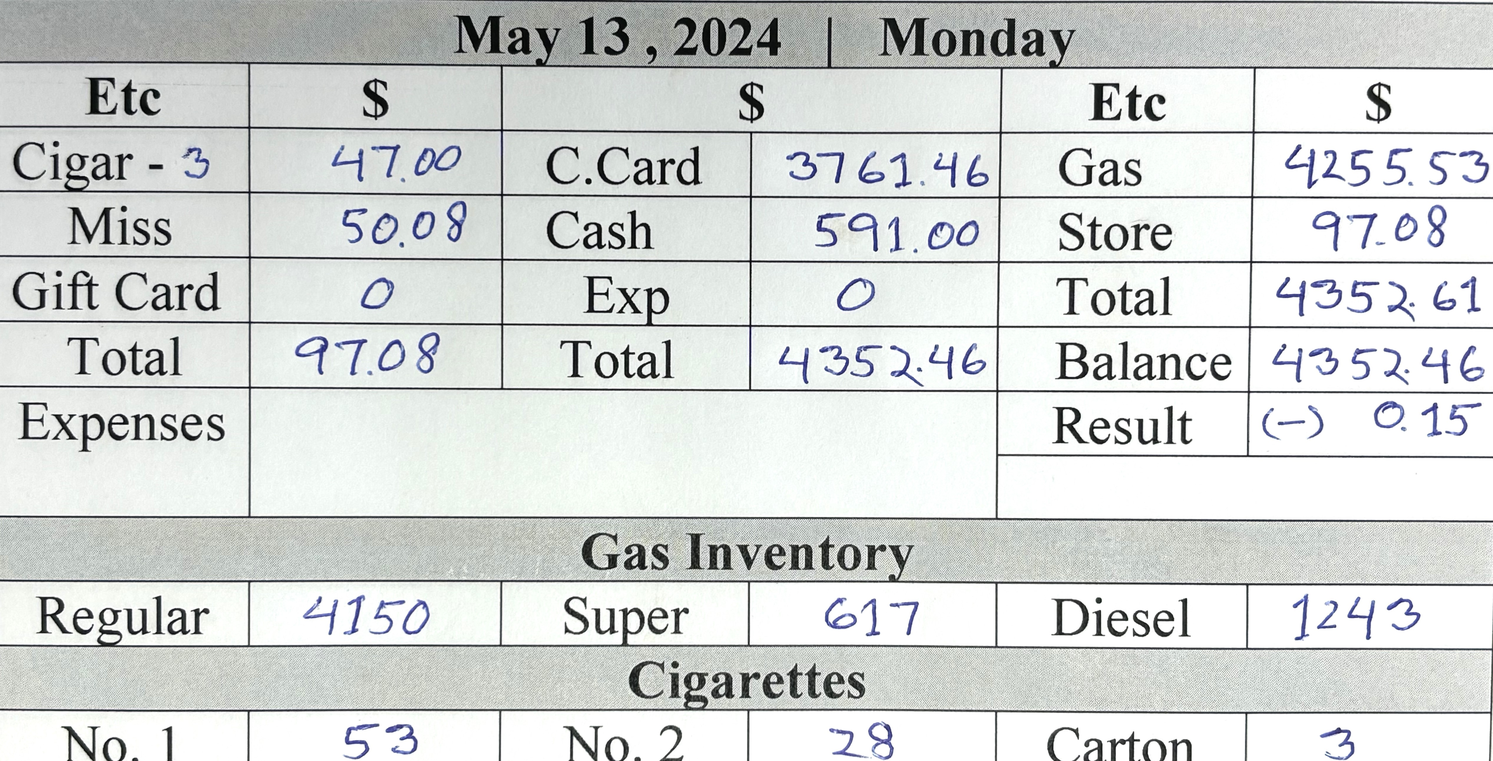
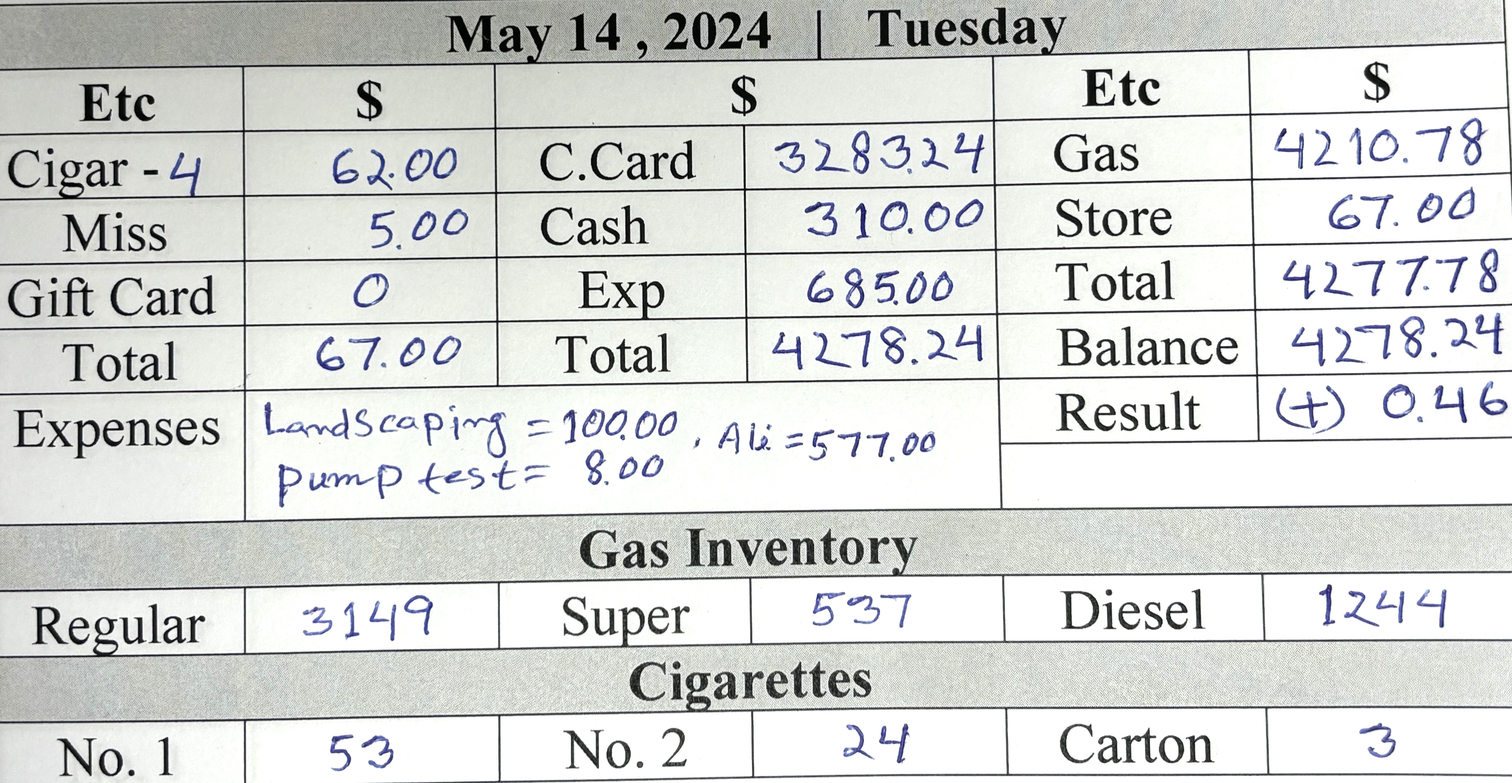
d

diff --git a/card.min.html b/card.min.html
@@ -1,1 +1,1 @@
-<!DOCTYPE html> <html lang="en"> <head> <meta charset="UTF-8"> <meta http-equiv="X-UA-Compatible" content="IE=edge"> <meta name="viewport" content="width=device-width,initial-scale=1"> <title>Gallon Info</title> <link rel="stylesheet" href="https://cdn.jsdelivr.net/npm/bootstrap@5.3.0-alpha1/dist/css/bootstrap.min.css"> </head> <body> <div class="card-group d-sm-flex flex-row bd-highlight mb- justify-content-center"> <div class="card bg-secondary align-items-center justify-content-center" style="height:50px"> <div class="card-body text-info fst-italic"> <h5 class="card-title fw-bolder text-center">Regular Price : <span class="text-warning">$3.59 <sup class="text-white fw-bolder fs-5">9</sup></span></h5> </div> </div> <div class="card bg-secondary align-items-center justify-content-center" style="height:50px"> <div class="card-body text-info fst-italic"> <h5 class="card-title fw-bolder text-center pt-">Silver Price : <span class="text-warning">$4.55<sup class="text-white fw-bolder fs-5">9</sup></span></h5> </div> </div> <div class="card bg-secondary align-items-center justify-content-center" style="height:50px"> <div class="card-body text-info fst-italic"> <h5 class="card-title fw-bolder text-center">Super Price : <span class="text-warning">$4.65<sup class="text-white fw-bolder fs-5">9</sup></span></h5> </div> </div> <div class="card bg-secondary align-items-center justify-content-center" style="height:50px"> <div class="card-body text-info fst-italic"> <h5 class="card-title fw-bolder text-center">Diesel Price : <span class="text-warning">$4.45<sup class="text-white fw-bolder fs-5">9</sup></span></h5> </div> </div> </div> <div class="card-group"> <div class="card"> <button type="button" class="btn btn-warning text- fs- fw-bold text-uppercase"> For store Details <a title="printPage Me" class="text-bg-danger ms-3 fw-bolder p-1 rounded-3 text-decoration-none" href="index.html"> Click Me </a> </button> </div> </div> <div class="card-group m-0 d-sm-flex flex-row bd-highlight mb-"> <div class="card me-1 bg-info"> <h5 class="card-title text-center pt-4 m-0"> <button class="p-1 rounded-3" type="button"><a title="Click Me" class="text-decoration-none text-primary fw-bolder" href="index.html">   </a> </button> </h5>  <p class="card-text"></p> <img src="allPic/13.jpg" class="card-img-top text-danger text-center fw-bolder fs-3" alt="Call Rashid "> <div class="card-body">   <p class="card-text"></p> </div> </div> <div class="card me-1 bg-info"> <h5 class="card-title text-center pt-4 m-0"> <button class="p-1 rounded-3" type="button"><a title="Click Me" class="text-primary fw-bolder text-decoration-none" href="index.html"> May 12,2024 </a> </button> </h5>  <p class="card-text"></p> <img src="allPic/12.jpg" class="card-img-top text-center text-bg-danger" alt="Not Done"> <div class="card-body">   <p class="card-text"></p> </div> </div> <div class="card ms- bg-info"> <h5 class="card-title text-center pt-4 m-0"> <button class="p-1 rounded-3" type="button"><a title="Click Me" class="text-primary fw-bolder text-decoration-none" href="index.html"> May 11 ,2024 </a> </button> </h5>  <p class="card-text"></p> <img src="allPic/11.jpg" class="card-img-top text-center text-bg-danger" alt="Not Done"> <div class="card-body">   <p class="card-text"></p> </div> </div> <div class="card me-1 bg-info"> <h5 class="card-title text-center pt-4 m-0"> <button class="p-1 rounded-3" type="button"><a title="Click Me" class="text-primary fw-bolder text-decoration-none" href="index.html"> May 10,2024 </a> </button> </h5>  <p class="card-text"></p> <img title="Pic" src="allPic/10.jpg" class="card-img-top text-bg-danger fw-bolder text-center" alt="Already Done"> <div class="card-body">   <p class="card-text"></p> </div> </div> </div> <div class="card"> <div class="card-header bg-warning text-dark fw-bolder text-center py-3"> All Rights Reserved @ Jaber Ali , 2024 </div> </div>  <script type="text/javascript">const timeElement=document.querySelector(".time"),dateElement=document.querySelector(".date");function formatTime(e){e.getHours(),e.getMinutes(),e.getHours();return""}function formatDate(e){return` ${["January","Marruary","March","April","May","June","July","August","September","October","November","December"][e.getMonth()]} ${e.getDate()-1}, ${e.getFullYear()}`}setInterval((()=>{const e=new Date;timeElement.textContent=formatTime(e),dateElement.textContent=formatDate(e)}),200)</script> 
+<!DOCTYPE html> <html lang="en"> <head> <meta charset="UTF-8"> <meta http-equiv="X-UA-Compatible" content="IE=edge"> <meta name="viewport" content="width=device-width,initial-scale=1"> <title>Gallon Info</title> <link rel="stylesheet" href="https://cdn.jsdelivr.net/npm/bootstrap@5.3.0-alpha1/dist/css/bootstrap.min.css"> </head> <body> <div class="card-group d-sm-flex flex-row bd-highlight mb- justify-content-center"> <div class="card bg-secondary align-items-center justify-content-center" style="height:50px"> <div class="card-body text-info fst-italic"> <h5 class="card-title fw-bolder text-center">Regular Price : <span class="text-warning">$3.59 <sup class="text-white fw-bolder fs-5">9</sup></span></h5> </div> </div> <div class="card bg-secondary align-items-center justify-content-center" style="height:50px"> <div class="card-body text-info fst-italic"> <h5 class="card-title fw-bolder text-center pt-">Silver Price : <span class="text-warning">$4.55<sup class="text-white fw-bolder fs-5">9</sup></span></h5> </div> </div> <div class="card bg-secondary align-items-center justify-content-center" style="height:50px"> <div class="card-body text-info fst-italic"> <h5 class="card-title fw-bolder text-center">Super Price : <span class="text-warning">$4.65<sup class="text-white fw-bolder fs-5">9</sup></span></h5> </div> </div> <div class="card bg-secondary align-items-center justify-content-center" style="height:50px"> <div class="card-body text-info fst-italic"> <h5 class="card-title fw-bolder text-center">Diesel Price : <span class="text-warning">$4.45<sup class="text-white fw-bolder fs-5">9</sup></span></h5> </div> </div> </div> <div class="card-group"> <div class="card"> <button type="button" class="btn btn-warning text- fs- fw-bold text-uppercase"> For store Details <a title="printPage Me" class="text-bg-danger ms-3 fw-bolder p-1 rounded-3 text-decoration-none" href="index.html"> Click Me </a> </button> </div> </div> <div class="card-group m-0 d-sm-flex flex-row bd-highlight mb-"> <div class="card me-1 bg-info"> <h5 class="card-title text-center pt-4 m-0"> <button class="p-1 rounded-3" type="button"><a title="Click Me" class="text-decoration-none text-primary fw-bolder" href="index.html">   </a> </button> </h5>  <p class="card-text"></p> <img src="allPic/14.jpg" class="card-img-top text-danger text-center fw-bolder fs-3" alt="Call Rashid "> <div class="card-body">   <p class="card-text"></p> </div> </div> <div class="card me-1 bg-info"> <h5 class="card-title text-center pt-4 m-0"> <button class="p-1 rounded-3" type="button"><a title="Click Me" class="text-primary fw-bolder text-decoration-none" href="index.html"> May 13,2024 </a> </button> </h5>  <p class="card-text"></p> <img src="allPic/13.jpg" class="card-img-top text-center text-bg-danger" alt="Not Done"> <div class="card-body">   <p class="card-text"></p> </div> </div> <div class="card ms- bg-info"> <h5 class="card-title text-center pt-4 m-0"> <button class="p-1 rounded-3" type="button"><a title="Click Me" class="text-primary fw-bolder text-decoration-none" href="index.html"> May 12 ,2024 </a> </button> </h5>  <p class="card-text"></p> <img src="allPic/12.jpg" class="card-img-top text-center text-bg-danger" alt="Not Done"> <div class="card-body">   <p class="card-text"></p> </div> </div> <div class="card me-1 bg-info"> <h5 class="card-title text-center pt-4 m-0"> <button class="p-1 rounded-3" type="button"><a title="Click Me" class="text-primary fw-bolder text-decoration-none" href="index.html"> May 11,2024 </a> </button> </h5>  <p class="card-text"></p> <img title="Pic" src="allPic/11.jpg" class="card-img-top text-bg-danger fw-bolder text-center" alt="Already Done"> <div class="card-body">   <p class="card-text"></p> </div> </div> </div> <div class="card"> <div class="card-header bg-warning text-dark fw-bolder text-center py-3"> All Rights Reserved @ Jaber Ali , 2024 </div> </div>  <script type="text/javascript">const timeElement=document.querySelector(".time"),dateElement=document.querySelector(".date");function formatTime(e){e.getHours(),e.getMinutes(),e.getHours();return""}function formatDate(e){return` ${["January","Marruary","March","April","May","June","July","August","September","October","November","December"][e.getMonth()]} ${e.getDate()-1}, ${e.getFullYear()}`}setInterval((()=>{const e=new Date;timeElement.textContent=formatTime(e),dateElement.textContent=formatDate(e)}),200)</script> 

diff --git a/index.min.html b/index.min.html
@@ -1,1 +1,1 @@
-<!DOCTYPE html> <html lang="en"> <head> <meta charset="UTF-8"> <meta http-equiv="X-UA-Compatible" content="IE=edge"> <meta name="viewport" content="width=device-width,initial-scale=1"> <title>Store Info</title> <link rel="stylesheet" href="https://cdn.jsdelivr.net/npm/bootstrap@5.3.0-alpha1/dist/css/bootstrap.min.css"> </head> <body> <div class="text-bg-success py-2 fw-bold text-uppercase"> <marquee behavior="" direction=""><span class="text-bolder text-bg-danger rounded-circle m-lg-2 fs-">***</span> Personal Business Information <span class="text-bolder text-bg-danger rounded-circle m-lg-2 fs-">***</span></marquee> </div> <div class="card-group"> <div class="card"> <button type="button" class="btn btn-warning fs- fw-bold text-uppercase"> For Gallon Details <a title="printPage Me" class="text-bg-danger ms-3 fw-bolder p-1 rounded-3 text-decoration-none" href="card.html"> Click Me </a> </button> </div> <div class="card"> <button type="button" class="btn btn-warning fs- fw-bold text-uppercase"> Weekly Total Money<a title="printPage Me" class="text-bg-danger ms-3 fw-bolder p-1 rounded-3 text-decoration-none" href="weekly.html"> Click Me </a> </button> </div> </div> <div class="card-group"> <div class="card"> <button type="button" class="btn btn-warning fs- fw-bold text-uppercase"> Order Cigarettes <a title="printPage Me" class="text-bg-danger ms-3 fw-bolder p-1 rounded-3 text-decoration-none" href="cigarettes.html"> Click Me </a> </button> </div> <div class="card"> <button type="button" class="btn btn-warning fs- fw-bold text-uppercase"> Oil Inventory<a title="printPage Me" class="text-bg-danger ms-3 fw-bolder p-1 rounded-3 text-decoration-none" href="oil.html"> Click Me </a> </button> </div> </div> <div class="text-center py-2"> <button class="fw-bold fs-5 rounded-2 text-bg-light text-primary"> <a title="printPage Me" class="text-decoration-none" href="card.html">   <span class=""> <button class="ms-5 fw-bolder rounded-2" onclick="printPage()"> Print Me </button></span> </a> </button> </div> <div class="card-group"> <div class="card"> <button type="button" class="btn btn-info fs- fw-bold text-uppercase"> Shift Report <span class="text-white ms-1">*</span> </button> <img src="allPic/hisab.jpg" class="card-img-top text-center text-bg-danger" alt="NOT FINISH"> </div> </div> <div class="card-grou"> <div class="card pb-3"> <button type="button" class="btn btn-secondary fs fw-bold text-uppercase"> Exp : <span class="text-warning ms-3">0 </span> </button> </div> </div> <div class="card-group"> <div class="card"> <button type="button" class="btn btn-secondary fs- fw-bold text-uppercase"> Auto shop </button> </div> </div> <div class="pb-3"> <div class="d-flex justify-content-around border border-dark fw-bolder"> <div class="p-0 text-info">T.M</div> <div class="p-0 text-danger">3817</div> <div class="p-0 text-info">Etc</div> <div class="p-0 text-danger">1158</div> <div class="p-0 text-info">Rest</div> <div class="p-0 text-danger"> 2659 = 1329.5 </div> </div> </div> <!-- #footer start --> <div class="text-bg-warning text-center py-3 fw-bold"> All Rights Reserved @ Jaber Ali , 2024 </div>  <script type="text/javascript">function printPage(){window.print()}const timeElement=document.querySelector(".time"),dateElement=document.querySelector(".date");function formatTime(t){const e=t.getHours()%12||12,n=t.getMinutes(),r=t.getHours()<12;return`${e.toString().padStart(2,"0")}:${n.toString().padStart(2,"0")} ${r?"AM":"PM"}`}function formatDate(t){return` ${["January","February","March","April","May","June","July","August","September","October","November","December"][t.getMonth()]} ${t.getDate()-1}, ${t.getFullYear()}`}setInterval((()=>{const t=new Date;timeElement.textContent=formatTime(t),dateElement.textContent=formatDate(t)}),200)</script> 
+<!DOCTYPE html> <html lang="en"> <head> <meta charset="UTF-8"> <meta http-equiv="X-UA-Compatible" content="IE=edge"> <meta name="viewport" content="width=device-width,initial-scale=1"> <title>Store Info</title> <link rel="stylesheet" href="https://cdn.jsdelivr.net/npm/bootstrap@5.3.0-alpha1/dist/css/bootstrap.min.css"> </head> <body> <div class="text-bg-success py-2 fw-bold text-uppercase"> <marquee behavior="" direction=""><span class="text-bolder text-bg-danger rounded-circle m-lg-2 fs-">***</span> Personal Business Information <span class="text-bolder text-bg-danger rounded-circle m-lg-2 fs-">***</span></marquee> </div> <div class="card-group"> <div class="card"> <button type="button" class="btn btn-warning fs- fw-bold text-uppercase"> For Gallon Details <a title="printPage Me" class="text-bg-danger ms-3 fw-bolder p-1 rounded-3 text-decoration-none" href="card.html"> Click Me </a> </button> </div> <div class="card"> <button type="button" class="btn btn-warning fs- fw-bold text-uppercase"> Weekly Total Money<a title="printPage Me" class="text-bg-danger ms-3 fw-bolder p-1 rounded-3 text-decoration-none" href="weekly.html"> Click Me </a> </button> </div> </div> <div class="card-group"> <div class="card"> <button type="button" class="btn btn-warning fs- fw-bold text-uppercase"> Order Cigarettes <a title="printPage Me" class="text-bg-danger ms-3 fw-bolder p-1 rounded-3 text-decoration-none" href="cigarettes.html"> Click Me </a> </button> </div> <div class="card"> <button type="button" class="btn btn-warning fs- fw-bold text-uppercase"> Oil Inventory<a title="printPage Me" class="text-bg-danger ms-3 fw-bolder p-1 rounded-3 text-decoration-none" href="oil.html"> Click Me </a> </button> </div> </div> <div class="text-center py-2"> <button class="fw-bold fs-5 rounded-2 text-bg-light text-primary"> <a title="printPage Me" class="text-decoration-none" href="card.html">   <span class=""> <button class="ms-5 fw-bolder rounded-2" onclick="printPage()"> Print Me </button></span> </a> </button> </div> <div class="card-group"> <div class="card"> <button type="button" class="btn btn-info fs- fw-bold text-uppercase"> Shift Report <span class="text-white ms-1">*</span> </button> <img src="allPic/hisab.jpg" class="card-img-top text-center text-bg-danger" alt="NOT FINISH"> </div> </div> <div class="card-grou"> <div class="card pb-3"> <button type="button" class="btn btn-secondary fs fw-bold text-uppercase"> Exp : <span class="text-warning ms-3">0 </span> </button> </div> </div> <div class="card-group"> <div class="card"> <button type="button" class="btn btn-secondary fs- fw-bold text-uppercase"> Auto shop </button> </div> </div> <div class="pb-3"> <div class="d-flex justify-content-around border border-dark fw-bolder"> <div class="p-0 text-info">T.M</div> <div class="p-0 text-danger">940</div> <div class="p-0 text-info">Etc</div> <div class="p-0 text-danger">587</div> <div class="p-0 text-info">Rest</div> <div class="p-0 text-danger"> 353 </div> </div> </div> <!-- #footer start --> <div class="text-bg-warning text-center py-3 fw-bold"> All Rights Reserved @ Jaber Ali , 2024 </div>  <script type="text/javascript">function printPage(){window.print()}const timeElement=document.querySelector(".time"),dateElement=document.querySelector(".date");function formatTime(t){const e=t.getHours()%12||12,n=t.getMinutes(),r=t.getHours()<12;return`${e.toString().padStart(2,"0")}:${n.toString().padStart(2,"0")} ${r?"AM":"PM"}`}function formatDate(t){return` ${["January","February","March","April","May","June","July","August","September","October","November","December"][t.getMonth()]} ${t.getDate()-1}, ${t.getFullYear()}`}setInterval((()=>{const t=new Date;timeElement.textContent=formatTime(t),dateElement.textContent=formatDate(t)}),200)</script> 

diff --git a/weekly.min.html b/weekly.min.html
@@ -1,1 +1,1 @@
-<!DOCTYPE html> <html lang="en"> <meta charset="UTF-8"> <meta http-equiv="X-UA-Compatible" content="IE=edge"> <meta name="viewport" content="width=device-width,initial-scale=1"> <title>Cigarettes Info</title> <link rel="stylesheet" href="https://cdn.jsdelivr.net/npm/bootstrap@5.3.0-alpha1/dist/css/bootstrap.min.css">  <body> <div class="text-bg-success py-2 fw-bold"> <marquee behavior="" direction="">Weekly Total Sales Money</marquee> </div> <div class="container-fluid text-center m-0 p-0"> <div class="card-group"> <div class="card"> <button type="button" class="btn btn-warning fs- fw-bold text-uppercase"> Home Page <a title="printPage Me" class="text-bg-danger ms-2 fw-bolder p-1 rounded-3 text-decoration-none" href="index.html"> Click Me </a> </button> </div> </div> <div class="text-bg-info text-cente py- fw-bold mb-"> <div class="card-group m-0 d-sm-flex flex-row bd-highlight mb-"> <div class="card me- bg-inf"> <h5 class="text-center ms-5 mt-3 text-danger">Current Week</h5> <div class="card-body ms-3 p-0"> <table class="table"> <tr class="text-end"> <td>Monday </td> <td>:</td> <td class="text-start"> 591.00 </td> </tr> <tr class="text-end"> <td>Tuesday </td> <td> :</td> <td class="text-start"> .00 </td> </tr> <tr class="text-end"> <td>Wednesday</td> <td> :</td> <td class="text-start"> .00</td> </tr> <tr class="text-end"> <td>Thursday </td> <td> :</td> <td class="text-start"> .00 </td> </tr> <tr class="text-end"> <td class="">Friday </td> <td> :</td> <td class="text-start"> .00</td> </tr> <tr class="text-end"> <td>Saturday </td> <td> :</td> <td class="text-start"> .00</td> </tr> <tr class="text-end"> <td>Sunday </td> <td> :</td> <td class="text-start"> .00 </td> </tr> <tr class="text-end"> <td>Auto Money </td> <td> :</td> <td class="text-start"> .00 </td> </tr> </table> <div class="m-0 p-0"> <p class="text-center text-danger bg-light fw-bold">Total Money : 0 </p> </div> </div> </div> <div class="card me- bg-inf"> <h5 class="text-center ms- mt-3 text-danger">Last Week : May 6 to 11 , 2024</h5> <div class="card-body ms-3 p-0"> <table class="table"> <tr class="text-end"> <td>Monday </td> <td>:</td> <td class="text-start"> - 497.00 [auto pabe]</td> </tr> <tr class="text-end"> <td>Tuesday </td> <td> :</td> <td class="text-start"> 899.00 </td> </tr> <tr class="text-end"> <td>Wednesday</td> <td> :</td> <td class="text-start"> 577.00</td> </tr> <tr class="text-end"> <td>Thursday </td> <td> :</td> <td class="text-start">841.00 </td> </tr> <tr class="text-end"> <td class="">Friday </td> <td> :</td> <td class="text-start"> 613.00</td> </tr> <tr class="text-end"> <td>Saturday </td> <td> :</td> <td class="text-start"> 489.00</td> </tr> <tr class="text-end"> <td>Sunday </td> <td> :</td> <td class="text-start"> 636.00 </td> </tr> <tr class="text-end"> <td>Auto Money </td> <td> :</td> <td class="text-start"> 1425 <sup class="p-1 rounded-4 text-bg-dark">Tax:96</sup> [Mostofa=1330] </td> </tr> </table> <div class="m-0 p-0"> <p class="text-center text-danger bg-light fw-bold">Total Money : 4983 - 1097 = 3886 </p> </div> </div> </div> <div class="card me- bg-"> <div class="card-body"> <h5 class="text-start text-danger ms-2">Expenses of Last Week</h5> <table class="table text-start"> <tr> <td class="">Ali <span class="ms-5">: 525.00</span></td> </tr> <tr> <td class="">Rashid <span class="ms-3">: 572.00</span></td> </tr> <tr> </tr> <tr> </tr> <tr> <td class="text-bg-warning text-dark rounded-2">Total <span class="ms-4">: 1097.00</span></td> </tr> </table> </div> </div> </div> </div> <!-- #footer start --> <div class="text-bg-success text-center py-2 fw-bold"> <p> All Rights Reserved @ Jaber Ali , 2024  </p> </div> </div> <script type="text/javascript">function printPage(){window.print()}</script> 
+<!DOCTYPE html> <html lang="en"> <meta charset="UTF-8"> <meta http-equiv="X-UA-Compatible" content="IE=edge"> <meta name="viewport" content="width=device-width,initial-scale=1"> <title>Cigarettes Info</title> <link rel="stylesheet" href="https://cdn.jsdelivr.net/npm/bootstrap@5.3.0-alpha1/dist/css/bootstrap.min.css">  <body> <div class="text-bg-success py-2 fw-bold"> <marquee behavior="" direction="">Weekly Total Sales Money</marquee> </div> <div class="container-fluid text-center m-0 p-0"> <div class="card-group"> <div class="card"> <button type="button" class="btn btn-warning fs- fw-bold text-uppercase"> Home Page <a title="printPage Me" class="text-bg-danger ms-2 fw-bolder p-1 rounded-3 text-decoration-none" href="index.html"> Click Me </a> </button> </div> </div> <div class="text-bg-info text-cente py- fw-bold mb-"> <div class="card-group m-0 d-sm-flex flex-row bd-highlight mb-"> <div class="card me- bg-inf"> <h5 class="text-center ms-5 mt-3 text-danger">Current Week</h5> <div class="card-body ms-3 p-0"> <table class="table"> <tr class="text-end"> <td>Monday </td> <td>:</td> <td class="text-start"> 591.00 </td> </tr> <tr class="text-end"> <td>Tuesday </td> <td> :</td> <td class="text-start"> 995.00 </td> </tr> <tr class="text-end"> <td>Wednesday</td> <td> :</td> <td class="text-start"> .00</td> </tr> <tr class="text-end"> <td>Thursday </td> <td> :</td> <td class="text-start"> .00 </td> </tr> <tr class="text-end"> <td class="">Friday </td> <td> :</td> <td class="text-start"> .00</td> </tr> <tr class="text-end"> <td>Saturday </td> <td> :</td> <td class="text-start"> .00</td> </tr> <tr class="text-end"> <td>Sunday </td> <td> :</td> <td class="text-start"> .00 </td> </tr> <tr class="text-end"> <td>Auto Money </td> <td> :</td> <td class="text-start"> .00 </td> </tr> </table> <div class="m-0 p-0"> <p class="text-center text-danger bg-light fw-bold">Total Money : 0 </p> </div> </div> </div> <div class="card me- bg-inf"> <h5 class="text-center ms- mt-3 text-danger">Last Week : May 6 to 11 , 2024</h5> <div class="card-body ms-3 p-0"> <table class="table"> <tr class="text-end"> <td>Monday </td> <td>:</td> <td class="text-start"> - 497.00 [auto pabe]</td> </tr> <tr class="text-end"> <td>Tuesday </td> <td> :</td> <td class="text-start"> 899.00 </td> </tr> <tr class="text-end"> <td>Wednesday</td> <td> :</td> <td class="text-start"> 577.00</td> </tr> <tr class="text-end"> <td>Thursday </td> <td> :</td> <td class="text-start">841.00 </td> </tr> <tr class="text-end"> <td class="">Friday </td> <td> :</td> <td class="text-start"> 613.00</td> </tr> <tr class="text-end"> <td>Saturday </td> <td> :</td> <td class="text-start"> 489.00</td> </tr> <tr class="text-end"> <td>Sunday </td> <td> :</td> <td class="text-start"> 636.00 </td> </tr> <tr class="text-end"> <td>Auto Money </td> <td> :</td> <td class="text-start"> 1425 <sup class="p-1 rounded-4 text-bg-dark">Tax:96</sup> [Mostofa=1330] </td> </tr> </table> <div class="m-0 p-0"> <p class="text-center text-danger bg-light fw-bold">Total Money : 4983 - 1097 = 3886 </p> </div> </div> </div> <div class="card me- bg-"> <div class="card-body"> <h5 class="text-start text-danger ms-2">Expenses of Last Week</h5> <table class="table text-start"> <tr> <td class="">Ali <span class="ms-5">: 525.00</span></td> </tr> <tr> <td class="">Rashid <span class="ms-3">: 572.00</span></td> </tr> <tr> </tr> <tr> </tr> <tr> <td class="text-bg-warning text-dark rounded-2">Total <span class="ms-4">: 1097.00</span></td> </tr> </table> </div> </div> </div> </div> <!-- #footer start --> <div class="text-bg-success text-center py-2 fw-bold"> <p> All Rights Reserved @ Jaber Ali , 2024  </p> </div> </div> <script type="text/javascript">function printPage(){window.print()}</script> 

diff --git a/card.html b/card.html
@@ -67,7 +67,7 @@
         </h5>
           <p class="card-text"></p>
           <p class="card-text"><small class="text-muted"></small></p>
-        <img src="allPic/13.jpg" class="card-img-top text-danger text-center fw-bolder fs-3"   alt="Call Rashid ">
+        <img src="allPic/14.jpg" class="card-img-top text-danger text-center fw-bolder fs-3"   alt="Call Rashid ">
         <div class="card-body">
           <h5 class="card-title"></h5>
           <p class="card-text"></p>
@@ -78,13 +78,13 @@
         <h5 class="card-title text-center pt-4 m-0">
           <button class="p-1 rounded-3" type="button"><a title="Click Me"
              class="text-primary fw-bolder text-decoration-none " href="index.html">
-             May 12,2024
+             May 13,2024
           </a>
           </button>
         </h5>
           <p class="card-text"></p>
           <p class="card-text"><small class="text-muted"></small></p>
-        <img src="allPic/12.jpg" class="card-img-top text-center text-bg-danger" 
+        <img src="allPic/13.jpg" class="card-img-top text-center text-bg-danger" 
         alt="Not Done">
         <div class="card-body">
           <h5 class="card-title"></h5>
@@ -96,13 +96,13 @@
         <h5 class="card-title text-center pt-4 m-0 ">
           <button class="p-1 rounded-3" type="button"><a title="Click Me" 
             class="text-primary fw-bolder text-decoration-none " href="index.html">
-            May 11 ,2024         
+            May 12 ,2024         
           </a>
           </button>
           </h5>
           <p class="card-text"></p>
           <p class="card-text"><small class="text-muted"></small></p>
-        <img src="allPic/11.jpg" class="card-img-top text-center text-bg-danger" 
+        <img src="allPic/12.jpg" class="card-img-top text-center text-bg-danger" 
         alt="Not Done">
         <div class="card-body">
           <h5 class="card-title"></h5>
@@ -115,13 +115,13 @@
         <h5 class="card-title text-center pt-4 m-0 ">
           <button class="p-1 rounded-3" type="button"><a title="Click Me" 
             class="text-primary fw-bolder text-decoration-none " href="index.html">
-             May 10,2024
+             May 11,2024
             </a>
           </button>
           </h5>
           <p class="card-text"></p>
           <p class="card-text"><small class="text-muted"></small></p>
-        <img title="Pic" src="allPic/10.jpg" class="card-img-top  text-bg-danger fw-bolder text-center"
+        <img title="Pic" src="allPic/11.jpg" class="card-img-top  text-bg-danger fw-bolder text-center"
          alt="Already Done">
         <div class="card-body">
           <h5 class="card-title"></h5>

diff --git a/index.html b/index.html
@@ -118,11 +118,11 @@
       <div class="d-flex justify-content-around border border-dark fw-bolder">
         <!--this week start-->
         <div class="p-0 text-info">T.M</div>
-        <div class="p-0 text-danger">3817</div>
+        <div class="p-0 text-danger">940</div>
         <div class="p-0 text-info">Etc</div>
-        <div class="p-0 text-danger">1158</div>
+        <div class="p-0 text-danger">587</div>
         <div class="p-0 text-info">Rest</div>
-        <div class="p-0 text-danger"> 2659 = 1329.5 </div>
+        <div class="p-0 text-danger"> 353 </div>
           <!--55-->
         </div>
       </div>

diff --git a/weekly.html b/weekly.html
@@ -54,7 +54,7 @@
                 <tr class=" text-end">
                     <td>Tuesday </td>
                     <td> :</td>
-                    <td class="text-start">  .00 </td>
+                    <td class="text-start">  995.00 </td>
                 </tr>
                 <tr class=" text-end">
                     <td>Wednesday</td>
